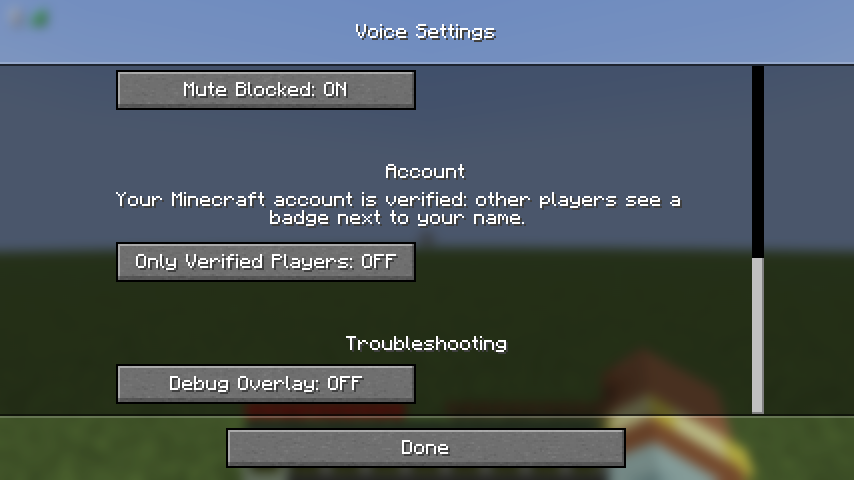
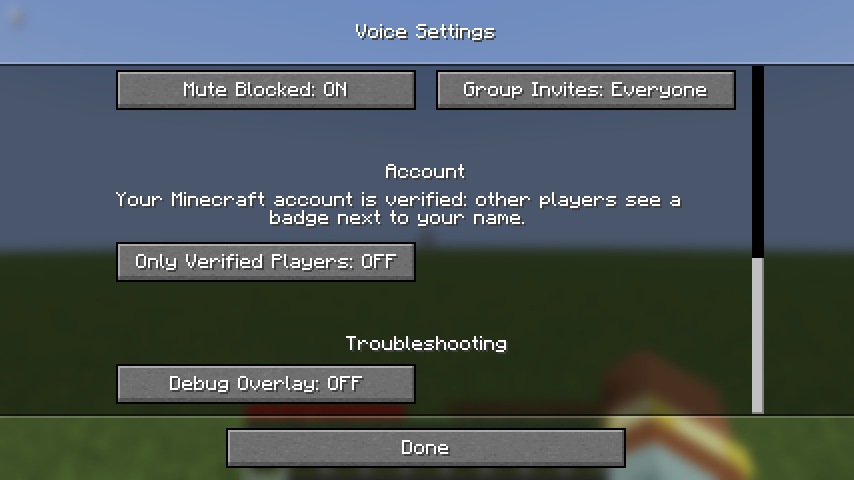
Describe invite-made groups in the user guide
The Group key in the Keys table, the HUD without the signal icon while
connected, the voice menu's setup card, the Group Invites setting and
the new Groups section, with the gametest's refreshed screenshots.

Part of #28

Changed region(s): [[0.4871, 0.125, 0.8829, 0.25], [0.0304, 0.0, 0.0609, 0.0625]]

diff --git a/docs/USER_GUIDE.md b/docs/USER_GUIDE.md
@@ -31,6 +31,7 @@ The keys are in Options → Controls → Key Binds, under **Yak VC**.
 | Key | Default | What it does |
 | --- | --- | --- |
 | Push to Talk | V | Hold to talk. |
+| Group | B | Look at a player and press it to invite them to a [group](#groups), or to accept their invite. |
 | Toggle Mute | not bound | Turns your microphone off and on. |
 | Toggle Deafen | not bound | Stops you hearing anyone. Your microphone still works unless you mute it too. |
 | Open Voice Menu | not bound | Opens the [voice menu](#the-voice-menu), and from there the settings. |
@@ -44,12 +45,12 @@ While you are in a world, a few icons in the top-left corner show how voice is d
 
 | | |
 | --- | --- |
-| ![White microphone, green bars](guide/hud-ready.png) | Ready. The microphone is white while you are silent, and the green bars mean you are connected to the Yak VC server. |
+| ![White microphone](guide/hud-ready.png) | Ready. The microphone is white while you are silent. |
 | ![Green microphone](guide/hud-talking.png) | Talking: your voice is going out. |
 | ![Red microphone](guide/hud-muted.png) | Muted. |
 | ![Red headphones](guide/hud-deafened.png) | Deafened. |
 
-The bars are yellow while Yak VC is connecting to its server (or trying again), and red when it can't reach it. A grey microphone with a short message means voice is off in this world:
+Signal bars appear next to the microphone only while Yak VC isn't connected to its server: yellow while it is connecting (or trying again), and red when it can't reach it. A grey microphone with a short message means voice is off in this world:
 
 - **Waiting for the server**: just after joining a server, until the server sends its details (at most 5 seconds).
 - **Voice off: chat is disabled for this account**: see [chat restrictions](#privacy).
@@ -69,6 +70,10 @@ A green speaker floats over the head of every player who is talking, above their
 ## The voice menu
 
 Press your **Open Voice Menu** key. The top line says whether voice is connected. Below it is every other player on the server, players with voice first.
+
+The first time you open it, a card at the top asks two things: who may invite you to a [group](#groups) (**Everyone**, **Friends** or **Nobody**) and how you talk (**Push to Talk** or **Voice**). **OK** saves both, and the card doesn't come back; both are in the [settings](#settings) too.
+
+![The voice menu with the first-run card](guide/voice-menu-setup.png)
 
 ![The voice menu](guide/voice-menu.png)
 
@@ -90,15 +95,24 @@ At the bottom: **Mute Mic**, **Deafen**, **Groups…**, **Settings…** and **Do
 
 ## Groups
 
-Players in a group hear each other wherever they are on the server, as if standing next to each other, without direction. Open **Groups…** in the voice menu.
+Players in a group hear each other wherever they are on the server, as if standing next to each other, without direction, and only each other: while you are in a group, players near you who aren't in it don't hear you, and you don't hear them. Push to Talk (or *Voice* activation) works the same as outside a group.
+
+**Making a group.** Look at a player and press **Group** (B). They see in chat that you invited them, for example *Steve invited you to a group. Look at them and press B.* When they look at you and press their Group key within two minutes, you are both in the group. Anyone in a group can invite more players the same way, and accepting an invite leaves the group you were in. A group is made face to face, so the player has to be in view; who may invite you is the **Group Invites** setting.
+
+![An invite in chat](guide/group-invite.png)
+
+When someone joins or leaves your group, or changes it, a message shows in the top-right corner: *Alex joined the group*, *Alex left the group*, *Steve made the group public*, *Steve changed the group label*, or *You were kicked from the group*.
+
+**The groups screen.** Open **Groups…** in the voice menu. Each group is a box of its members' faces (point at a face to see the name), with its label above if it has one.
 
 ![The groups screen](guide/voice-groups.png)
 
-- **The list** shows every group on the server, who is in it, and **(password)** if it has one. **Join** joins a group (asking for the password if it has one), and **Leave** leaves yours. You can be in one group at a time, and you leave it when you leave the server.
-- **Create** makes a group from the name (up to 32 characters) and the optional password typed at the bottom. Joining a group nobody is in yet is the same as creating it. The same name with a different password is a different group, so check the password when you create one.
-- **Nearby Players** is on by default: you still hear, and are heard by, players near you who aren't in your group. Turn it off to talk only to your group: then nobody outside the group hears you, and you hear nobody outside it.
-- Mute, volume, deafen and blocking work in groups as everywhere else.
-- **Passwords keep strangers out, but they aren't secret.** Everyone on the server can try to guess a group's password, so never reuse a real one. What you say in a group is encrypted like all voice.
+- **Your group** comes first. **Leave** leaves it. **Private** or **Public** switches who can see it: a private group is seen only by its members; a public one is listed for everyone on the server, and anyone may **Join** it. Type a label of up to 32 characters above the faces and press Enter to set it; leave it empty for none.
+- **Public groups** of other players follow, each with **Join**.
+- Groups have no leader: every member can invite, change the label or the public setting, or start a vote to kick someone. You can be in one group at a time, and you leave it when you leave the server.
+- Mute, volume, deafen and blocking work in groups as everywhere else. What you say in a group is encrypted like all voice.
+
+**Kicking someone.** Type `/yakvc kick <player>` in chat (Tab suggests your group mates). The other members see *Steve wants to kick Alex from the group.* with **[Yes]** and **[No]** to click, and each vote shows how far it has got, for example *Vote to kick Alex: 2 of 3*. When more than half of the other members vote yes within a minute, Alex is out of the group. A kicked player can join a public group again; make it private to keep them out.
 
 The game's own Voice/Speech slider (Options → Music & Sounds) sets the volume of all voices, together with Master.
 
@@ -126,6 +140,7 @@ Open the settings from **Options → Music & Sounds → Voice Chat…**, at the 
 - **Relay Only**: sends all voice through the Yak VC relay, so other players don't learn your IP address (see [privacy](#privacy)). Off by default. It takes effect after you restart the game.
 - **Obey Chat Limits**: turns voice off while your Microsoft account or launcher disables chat. On by default.
 - **Mute Blocked**: players you block in Social Interactions can't hear you, and you don't hear them. On by default.
+- **Group Invites**: who may invite you to a [group](#groups): *Everyone* (the default), *Friends* (the players in `friends_only` in the [config file](#the-config-file)) or *Nobody*. Invites from anyone else are ignored.
 
 Under **Account** the settings say whether your Minecraft account is verified (see [Installing](#installing)).
 
@@ -138,7 +153,7 @@ Under **Troubleshooting**:
 ## Privacy
 
 - **Other players learn your IP address.** Voice goes straight from player to player, and Yak VC connects to every Yak VC player on the server as soon as you both join, so all of them can see your IP address, not just the ones near you. On a server network with one shared player list, that is every Yak VC player on the network. Turn on **Relay Only** to hide it: everything then goes through the Yak VC relay. A relay has limited room, so with Relay Only about 11 nearby players can hear you at once; the nearest get it first.
-- **You talk only to players you can see nearby.** Yak VC sends your voice only to players your game shows within range, and plays only theirs. Spectators neither hear nor are heard. Voice is encrypted from player to player; the relay only passes on encrypted data.
+- **You talk only to players you can see nearby, or to your group.** Yak VC sends your voice only to players your game shows within range, and plays only theirs; in a [group](#groups), only to and from its members, wherever they are. Outside a group, spectators neither hear nor are heard. Voice is encrypted from player to player; the relay only passes on encrypted data.
 - **The Yak VC server** learns which Yak VC players are on a server together and their IP addresses, but never hears what you say, and it keeps no record of who played with whom. Your game sends it the rest of the player list only as scrambled codes, but player IDs are public, so it could work out who is on your list.
 - **Chat restrictions.** If your Microsoft account (for example a child account) or your launcher turns chat off, Yak VC turns voice off too. **Obey Chat Limits** controls this.
 - **Blocked players.** Anyone you block in Social Interactions is muted both ways. **Mute Blocked** controls this.
@@ -197,6 +212,7 @@ The keys that the settings screen shows:
 | `respect_chat_restrictions` | `true` | Obey Chat Limits |
 | `mute_blocked_players` | `true` | Mute Blocked |
 | `verified_only` | `false` | Only Verified Players |
+| `invites` | `"everyone"` | Group Invites (`"everyone"`, `"friends"` or `"nobody"`) |
 | `[audio]` `activation` | `"push_to_talk"` | Activation (`"push_to_talk"` or `"voice"`) |
 | `[audio]` `bitrate` | `24000` | Bitrate, in bits per second |
 | `[audio]` `input_device` | unset | Microphone, by device id |
@@ -207,6 +223,7 @@ A few more are only in the file:
 | Key | Default | What it does |
 | --- | --- | --- |
 | `friends_only` | unset | A list of player UUIDs, like `["11111111-2222-3333-4444-555555555555"]`. When set, you hear and talk to only these players. |
+| `setup_done` | `false` | Set once the voice menu's first-run card is dismissed, so it shows only once. |
 | `[audio]` `noise_suppression` | `true` | Filters background noise out of your microphone. |
 | `[audio]` `input_gain` | `1.0` | Microphone volume, from 0 to 10. |
 | `[audio]` `vad_threshold_db` | `-45.0` | How loud you must be for *Voice* activation to send, from -100 (everything) to 0 (very loud only). |
